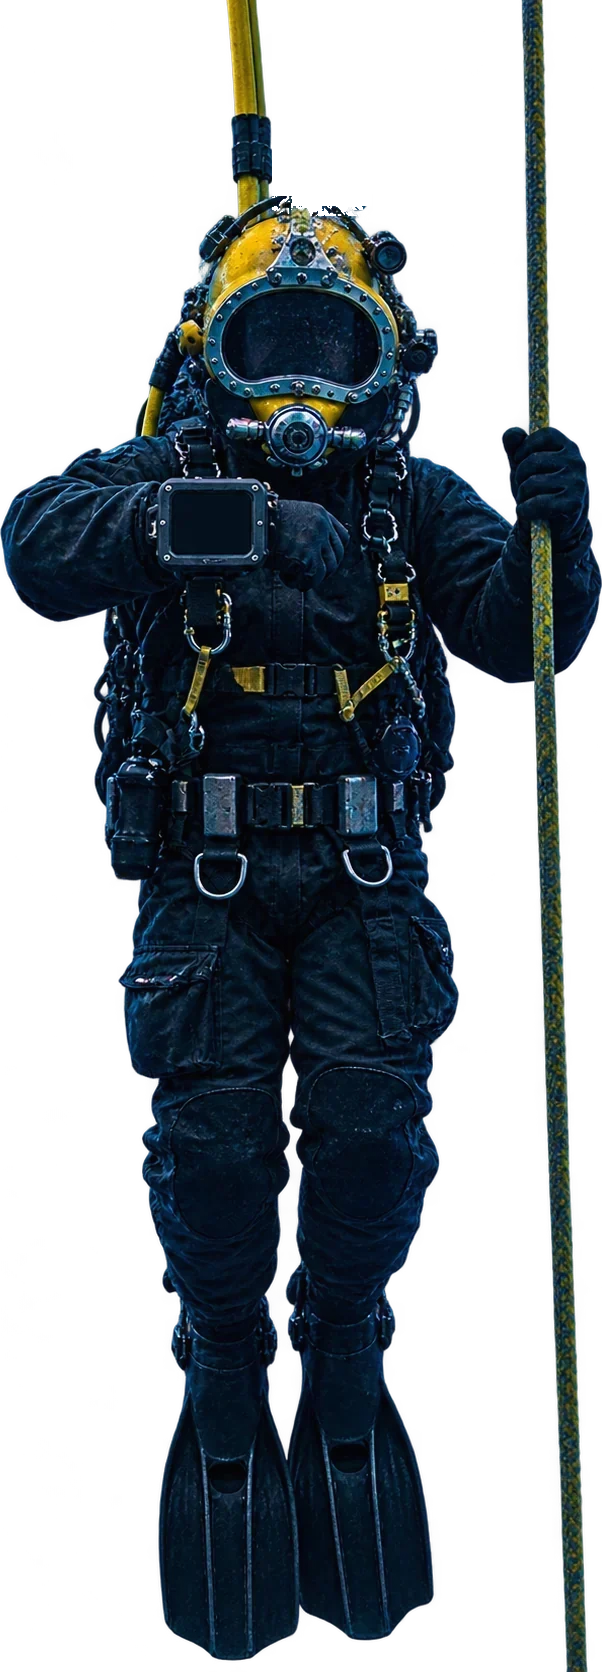
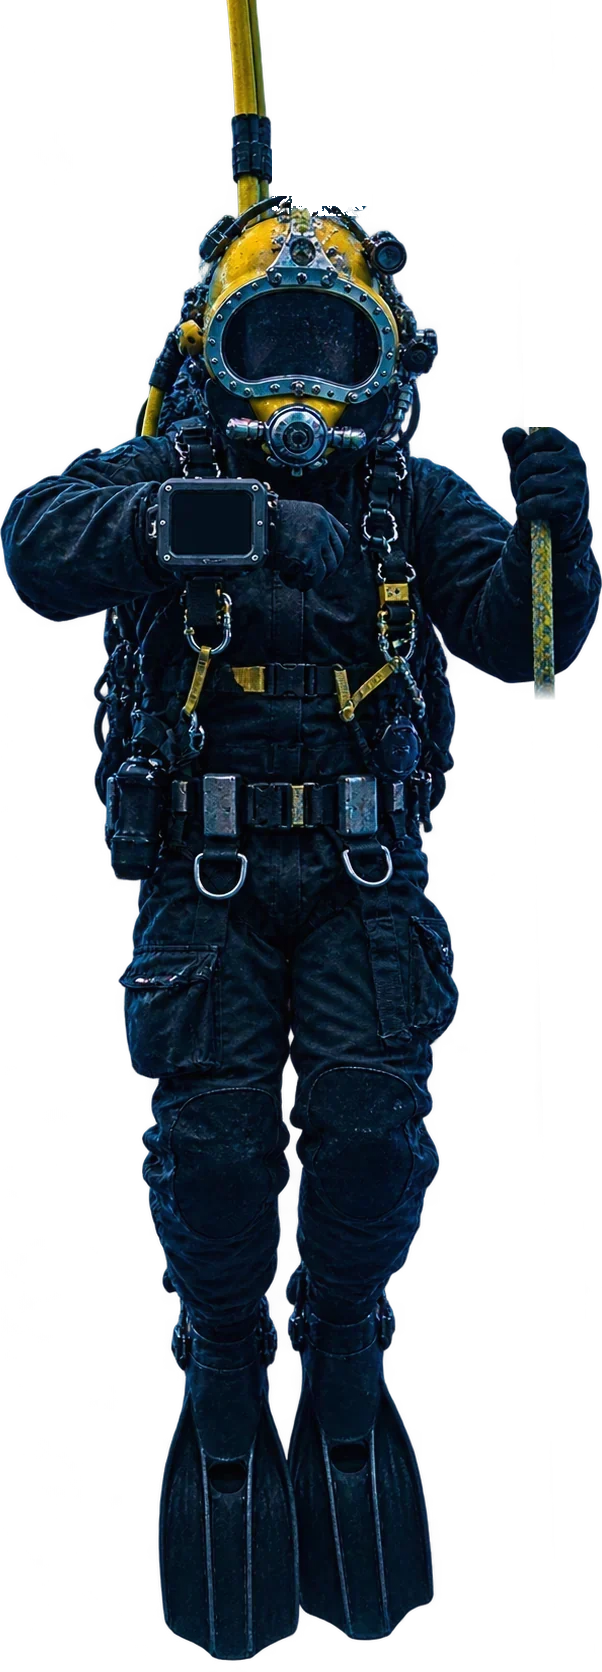
Cima di discesa ferma, il sub scorre

Changed region(s): [[0.8671, 0.4043, 0.9867, 1.0], [0.8671, 0.0, 0.9269, 0.2799]]

diff --git a/public/es/utilidades.html b/public/es/utilidades.html
@@ -20,12 +20,12 @@
 <link rel="icon" href="/favicon.png?v=3" type="image/png">
 <link rel="apple-touch-icon" href="/apple-touch-icon.png?v=3">
 <link rel="preload" href="/fonts/montserrat-latin-800-normal.woff2" as="font" type="font/woff2" crossorigin>
-<link rel="stylesheet" href="/css/style.css?v=6a1260e4">
+<link rel="stylesheet" href="/css/style.css?v=79aaf53f">
 <link rel="stylesheet" href="/vendor/leaflet/leaflet.css">
 </head>
 <body>
 <div class="abyss-bg" aria-hidden="true" data-max="50"><i class="ab1"></i><i class="ab2"></i><i class="ab3"></i><span class="ab-veil"></span></div>
-<div class="diver" aria-hidden="true"><span class="dv-hose"></span><span class="dv-bub"></span><span class="dv-rope"></span><span class="dv-rope2"></span><img src="/img/sub-ots.webp" alt="" width="602" height="1672"><span class="dv-lamp"></span><span class="dv-scr"><b data-depth>0.0</b><small>m</small></span></div>
+<span class="dv-line" aria-hidden="true"></span><div class="diver" aria-hidden="true"><span class="dv-hose"></span><span class="dv-bub"></span><span class="dv-rope"></span><span class="dv-rope2"></span><img src="/img/sub-ots.webp" alt="" width="602" height="1672"><span class="dv-lamp"></span><span class="dv-scr"><b data-depth>0.0</b><small>m</small></span></div>
 <a class="skip" href="#main">Ir al contenido</a>
 <header class="site-header solid">
 <div class="wrap nav-row">
@@ -132,8 +132,8 @@
 </div>
 <a class="sos-1530" href="tel:1530">¿Personas en peligro? Llama ya a la Guardia Costera italiana: <b>1530</b></a>
 </dialog>
-<script src="/js/main.js?v=6a1260e4"></script>
+<script src="/js/main.js?v=79aaf53f"></script>
 <script src="/vendor/leaflet/leaflet.js"></script>
-<script src="/js/utilita.js?v=6a1260e4"></script>
+<script src="/js/utilita.js?v=79aaf53f"></script>
 </body>
 </html>

diff --git a/public/de/nuetzliches.html b/public/de/nuetzliches.html
@@ -20,12 +20,12 @@
 <link rel="icon" href="/favicon.png?v=3" type="image/png">
 <link rel="apple-touch-icon" href="/apple-touch-icon.png?v=3">
 <link rel="preload" href="/fonts/montserrat-latin-800-normal.woff2" as="font" type="font/woff2" crossorigin>
-<link rel="stylesheet" href="/css/style.css?v=6a1260e4">
+<link rel="stylesheet" href="/css/style.css?v=79aaf53f">
 <link rel="stylesheet" href="/vendor/leaflet/leaflet.css">
 </head>
 <body>
 <div class="abyss-bg" aria-hidden="true" data-max="50"><i class="ab1"></i><i class="ab2"></i><i class="ab3"></i><span class="ab-veil"></span></div>
-<div class="diver" aria-hidden="true"><span class="dv-hose"></span><span class="dv-bub"></span><span class="dv-rope"></span><span class="dv-rope2"></span><img src="/img/sub-ots.webp" alt="" width="602" height="1672"><span class="dv-lamp"></span><span class="dv-scr"><b data-depth>0.0</b><small>m</small></span></div>
+<span class="dv-line" aria-hidden="true"></span><div class="diver" aria-hidden="true"><span class="dv-hose"></span><span class="dv-bub"></span><span class="dv-rope"></span><span class="dv-rope2"></span><img src="/img/sub-ots.webp" alt="" width="602" height="1672"><span class="dv-lamp"></span><span class="dv-scr"><b data-depth>0.0</b><small>m</small></span></div>
 <a class="skip" href="#main">Zum Inhalt</a>
 <header class="site-header solid">
 <div class="wrap nav-row">
@@ -132,8 +132,8 @@
 </div>
 <a class="sos-1530" href="tel:1530">Menschen in Gefahr? Sofort die italienische Küstenwache anrufen: <b>1530</b></a>
 </dialog>
-<script src="/js/main.js?v=6a1260e4"></script>
+<script src="/js/main.js?v=79aaf53f"></script>
 <script src="/vendor/leaflet/leaflet.js"></script>
-<script src="/js/utilita.js?v=6a1260e4"></script>
+<script src="/js/utilita.js?v=79aaf53f"></script>
 </body>
 </html>

diff --git a/public/utilita.html b/public/utilita.html
@@ -20,12 +20,12 @@
 <link rel="icon" href="/favicon.png?v=3" type="image/png">
 <link rel="apple-touch-icon" href="/apple-touch-icon.png?v=3">
 <link rel="preload" href="/fonts/montserrat-latin-800-normal.woff2" as="font" type="font/woff2" crossorigin>
-<link rel="stylesheet" href="/css/style.css?v=6a1260e4">
+<link rel="stylesheet" href="/css/style.css?v=79aaf53f">
 <link rel="stylesheet" href="/vendor/leaflet/leaflet.css">
 </head>
 <body>
 <div class="abyss-bg" aria-hidden="true" data-max="50"><i class="ab1"></i><i class="ab2"></i><i class="ab3"></i><span class="ab-veil"></span></div>
-<div class="diver" aria-hidden="true"><span class="dv-hose"></span><span class="dv-bub"></span><span class="dv-rope"></span><span class="dv-rope2"></span><img src="/img/sub-ots.webp" alt="" width="602" height="1672"><span class="dv-lamp"></span><span class="dv-scr"><b data-depth>0.0</b><small>m</small></span></div>
+<span class="dv-line" aria-hidden="true"></span><div class="diver" aria-hidden="true"><span class="dv-hose"></span><span class="dv-bub"></span><span class="dv-rope"></span><span class="dv-rope2"></span><img src="/img/sub-ots.webp" alt="" width="602" height="1672"><span class="dv-lamp"></span><span class="dv-scr"><b data-depth>0.0</b><small>m</small></span></div>
 <a class="skip" href="#main">Vai al contenuto</a>
 <header class="site-header solid">
 <div class="wrap nav-row">
@@ -132,8 +132,8 @@
 </div>
 <a class="sos-1530" href="tel:1530">Persone in pericolo? Chiama subito la Guardia Costiera: <b>1530</b></a>
 </dialog>
-<script src="/js/main.js?v=6a1260e4"></script>
+<script src="/js/main.js?v=79aaf53f"></script>
 <script src="/vendor/leaflet/leaflet.js"></script>
-<script src="/js/utilita.js?v=6a1260e4"></script>
+<script src="/js/utilita.js?v=79aaf53f"></script>
 </body>
 </html>

diff --git a/public/en/tools.html b/public/en/tools.html
@@ -20,12 +20,12 @@
 <link rel="icon" href="/favicon.png?v=3" type="image/png">
 <link rel="apple-touch-icon" href="/apple-touch-icon.png?v=3">
 <link rel="preload" href="/fonts/montserrat-latin-800-normal.woff2" as="font" type="font/woff2" crossorigin>
-<link rel="stylesheet" href="/css/style.css?v=6a1260e4">
+<link rel="stylesheet" href="/css/style.css?v=79aaf53f">
 <link rel="stylesheet" href="/vendor/leaflet/leaflet.css">
 </head>
 <body>
 <div class="abyss-bg" aria-hidden="true" data-max="50"><i class="ab1"></i><i class="ab2"></i><i class="ab3"></i><span class="ab-veil"></span></div>
-<div class="diver" aria-hidden="true"><span class="dv-hose"></span><span class="dv-bub"></span><span class="dv-rope"></span><span class="dv-rope2"></span><img src="/img/sub-ots.webp" alt="" width="602" height="1672"><span class="dv-lamp"></span><span class="dv-scr"><b data-depth>0.0</b><small>m</small></span></div>
+<span class="dv-line" aria-hidden="true"></span><div class="diver" aria-hidden="true"><span class="dv-hose"></span><span class="dv-bub"></span><span class="dv-rope"></span><span class="dv-rope2"></span><img src="/img/sub-ots.webp" alt="" width="602" height="1672"><span class="dv-lamp"></span><span class="dv-scr"><b data-depth>0.0</b><small>m</small></span></div>
 <a class="skip" href="#main">Skip to content</a>
 <header class="site-header solid">
 <div class="wrap nav-row">
@@ -132,8 +132,8 @@
 </div>
 <a class="sos-1530" href="tel:1530">People in danger? Call the Italian Coast Guard now: <b>1530</b></a>
 </dialog>
-<script src="/js/main.js?v=6a1260e4"></script>
+<script src="/js/main.js?v=79aaf53f"></script>
 <script src="/vendor/leaflet/leaflet.js"></script>
-<script src="/js/utilita.js?v=6a1260e4"></script>
+<script src="/js/utilita.js?v=79aaf53f"></script>
 </body>
 </html>

diff --git a/public/es/index.html b/public/es/index.html
@@ -20,11 +20,11 @@
 <link rel="icon" href="/favicon.png?v=3" type="image/png">
 <link rel="apple-touch-icon" href="/apple-touch-icon.png?v=3">
 <link rel="preload" href="/fonts/montserrat-latin-800-normal.woff2" as="font" type="font/woff2" crossorigin>
-<link rel="stylesheet" href="/css/style.css?v=6a1260e4">
+<link rel="stylesheet" href="/css/style.css?v=79aaf53f">
 </head>
 <body>
 <div class="abyss-bg" aria-hidden="true" data-max="50"><i class="ab1"></i><i class="ab2"></i><i class="ab3"></i><span class="ab-veil"></span></div>
-<div class="diver" aria-hidden="true"><span class="dv-hose"></span><span class="dv-bub"></span><span class="dv-rope"></span><span class="dv-rope2"></span><img src="/img/sub-ots.webp" alt="" width="602" height="1672"><span class="dv-lamp"></span><span class="dv-scr"><b data-depth>0.0</b><small>m</small></span></div>
+<span class="dv-line" aria-hidden="true"></span><div class="diver" aria-hidden="true"><span class="dv-hose"></span><span class="dv-bub"></span><span class="dv-rope"></span><span class="dv-rope2"></span><img src="/img/sub-ots.webp" alt="" width="602" height="1672"><span class="dv-lamp"></span><span class="dv-scr"><b data-depth>0.0</b><small>m</small></span></div>
 <a class="skip" href="#main">Ir al contenido</a>
 <header class="site-header">
 <div class="wrap nav-row">
@@ -261,7 +261,7 @@
 </div>
 <a class="sos-1530" href="tel:1530">¿Personas en peligro? Llama ya a la Guardia Costera italiana: <b>1530</b></a>
 </dialog>
-<script src="/js/main.js?v=6a1260e4"></script>
-<script src="/js/utilita.js?v=6a1260e4"></script>
+<script src="/js/main.js?v=79aaf53f"></script>
+<script src="/js/utilita.js?v=79aaf53f"></script>
 </body>
 </html>

diff --git a/public/de/index.html b/public/de/index.html
@@ -20,11 +20,11 @@
 <link rel="icon" href="/favicon.png?v=3" type="image/png">
 <link rel="apple-touch-icon" href="/apple-touch-icon.png?v=3">
 <link rel="preload" href="/fonts/montserrat-latin-800-normal.woff2" as="font" type="font/woff2" crossorigin>
-<link rel="stylesheet" href="/css/style.css?v=6a1260e4">
+<link rel="stylesheet" href="/css/style.css?v=79aaf53f">
 </head>
 <body>
 <div class="abyss-bg" aria-hidden="true" data-max="50"><i class="ab1"></i><i class="ab2"></i><i class="ab3"></i><span class="ab-veil"></span></div>
-<div class="diver" aria-hidden="true"><span class="dv-hose"></span><span class="dv-bub"></span><span class="dv-rope"></span><span class="dv-rope2"></span><img src="/img/sub-ots.webp" alt="" width="602" height="1672"><span class="dv-lamp"></span><span class="dv-scr"><b data-depth>0.0</b><small>m</small></span></div>
+<span class="dv-line" aria-hidden="true"></span><div class="diver" aria-hidden="true"><span class="dv-hose"></span><span class="dv-bub"></span><span class="dv-rope"></span><span class="dv-rope2"></span><img src="/img/sub-ots.webp" alt="" width="602" height="1672"><span class="dv-lamp"></span><span class="dv-scr"><b data-depth>0.0</b><small>m</small></span></div>
 <a class="skip" href="#main">Zum Inhalt</a>
 <header class="site-header">
 <div class="wrap nav-row">
@@ -261,7 +261,7 @@
 </div>
 <a class="sos-1530" href="tel:1530">Menschen in Gefahr? Sofort die italienische Küstenwache anrufen: <b>1530</b></a>
 </dialog>
-<script src="/js/main.js?v=6a1260e4"></script>
-<script src="/js/utilita.js?v=6a1260e4"></script>
+<script src="/js/main.js?v=79aaf53f"></script>
+<script src="/js/utilita.js?v=79aaf53f"></script>
 </body>
 </html>

diff --git a/public/index.html b/public/index.html
@@ -20,11 +20,11 @@
 <link rel="icon" href="/favicon.png?v=3" type="image/png">
 <link rel="apple-touch-icon" href="/apple-touch-icon.png?v=3">
 <link rel="preload" href="/fonts/montserrat-latin-800-normal.woff2" as="font" type="font/woff2" crossorigin>
-<link rel="stylesheet" href="/css/style.css?v=6a1260e4">
+<link rel="stylesheet" href="/css/style.css?v=79aaf53f">
 </head>
 <body>
 <div class="abyss-bg" aria-hidden="true" data-max="50"><i class="ab1"></i><i class="ab2"></i><i class="ab3"></i><span class="ab-veil"></span></div>
-<div class="diver" aria-hidden="true"><span class="dv-hose"></span><span class="dv-bub"></span><span class="dv-rope"></span><span class="dv-rope2"></span><img src="/img/sub-ots.webp" alt="" width="602" height="1672"><span class="dv-lamp"></span><span class="dv-scr"><b data-depth>0.0</b><small>m</small></span></div>
+<span class="dv-line" aria-hidden="true"></span><div class="diver" aria-hidden="true"><span class="dv-hose"></span><span class="dv-bub"></span><span class="dv-rope"></span><span class="dv-rope2"></span><img src="/img/sub-ots.webp" alt="" width="602" height="1672"><span class="dv-lamp"></span><span class="dv-scr"><b data-depth>0.0</b><small>m</small></span></div>
 <a class="skip" href="#main">Vai al contenuto</a>
 <header class="site-header">
 <div class="wrap nav-row">
@@ -261,7 +261,7 @@
 </div>
 <a class="sos-1530" href="tel:1530">Persone in pericolo? Chiama subito la Guardia Costiera: <b>1530</b></a>
 </dialog>
-<script src="/js/main.js?v=6a1260e4"></script>
-<script src="/js/utilita.js?v=6a1260e4"></script>
+<script src="/js/main.js?v=79aaf53f"></script>
+<script src="/js/utilita.js?v=79aaf53f"></script>
 </body>
 </html>

diff --git a/public/en/index.html b/public/en/index.html
@@ -20,11 +20,11 @@
 <link rel="icon" href="/favicon.png?v=3" type="image/png">
 <link rel="apple-touch-icon" href="/apple-touch-icon.png?v=3">
 <link rel="preload" href="/fonts/montserrat-latin-800-normal.woff2" as="font" type="font/woff2" crossorigin>
-<link rel="stylesheet" href="/css/style.css?v=6a1260e4">
+<link rel="stylesheet" href="/css/style.css?v=79aaf53f">
 </head>
 <body>
 <div class="abyss-bg" aria-hidden="true" data-max="50"><i class="ab1"></i><i class="ab2"></i><i class="ab3"></i><span class="ab-veil"></span></div>
-<div class="diver" aria-hidden="true"><span class="dv-hose"></span><span class="dv-bub"></span><span class="dv-rope"></span><span class="dv-rope2"></span><img src="/img/sub-ots.webp" alt="" width="602" height="1672"><span class="dv-lamp"></span><span class="dv-scr"><b data-depth>0.0</b><small>m</small></span></div>
+<span class="dv-line" aria-hidden="true"></span><div class="diver" aria-hidden="true"><span class="dv-hose"></span><span class="dv-bub"></span><span class="dv-rope"></span><span class="dv-rope2"></span><img src="/img/sub-ots.webp" alt="" width="602" height="1672"><span class="dv-lamp"></span><span class="dv-scr"><b data-depth>0.0</b><small>m</small></span></div>
 <a class="skip" href="#main">Skip to content</a>
 <header class="site-header">
 <div class="wrap nav-row">
@@ -261,7 +261,7 @@
 </div>
 <a class="sos-1530" href="tel:1530">People in danger? Call the Italian Coast Guard now: <b>1530</b></a>
 </dialog>
-<script src="/js/main.js?v=6a1260e4"></script>
-<script src="/js/utilita.js?v=6a1260e4"></script>
+<script src="/js/main.js?v=79aaf53f"></script>
+<script src="/js/utilita.js?v=79aaf53f"></script>
 </body>
 </html>

diff --git a/public/es/contacto.html b/public/es/contacto.html
@@ -20,11 +20,11 @@
 <link rel="icon" href="/favicon.png?v=3" type="image/png">
 <link rel="apple-touch-icon" href="/apple-touch-icon.png?v=3">
 <link rel="preload" href="/fonts/montserrat-latin-800-normal.woff2" as="font" type="font/woff2" crossorigin>
-<link rel="stylesheet" href="/css/style.css?v=6a1260e4">
+<link rel="stylesheet" href="/css/style.css?v=79aaf53f">
 </head>
 <body>
 <div class="abyss-bg is-shallow" aria-hidden="true" data-max="30"><i class="ab1"></i><i class="ab2"></i><i class="ab3"></i><span class="ab-veil"></span></div>
-<div class="diver" aria-hidden="true"><span class="dv-hose"></span><span class="dv-bub"></span><span class="dv-rope"></span><span class="dv-rope2"></span><img src="/img/sub-ots.webp" alt="" width="602" height="1672"><span class="dv-lamp"></span><span class="dv-scr"><b data-depth>0.0</b><small>m</small></span></div>
+<span class="dv-line" aria-hidden="true"></span><div class="diver" aria-hidden="true"><span class="dv-hose"></span><span class="dv-bub"></span><span class="dv-rope"></span><span class="dv-rope2"></span><img src="/img/sub-ots.webp" alt="" width="602" height="1672"><span class="dv-lamp"></span><span class="dv-scr"><b data-depth>0.0</b><small>m</small></span></div>
 <a class="skip" href="#main">Ir al contenido</a>
 <header class="site-header solid">
 <div class="wrap nav-row">
@@ -109,6 +109,6 @@
 </div>
 <a class="sos-1530" href="tel:1530">¿Personas en peligro? Llama ya a la Guardia Costera italiana: <b>1530</b></a>
 </dialog>
-<script src="/js/main.js?v=6a1260e4"></script>
+<script src="/js/main.js?v=79aaf53f"></script>
 </body>
 </html>

diff --git a/public/es/quienes-somos.html b/public/es/quienes-somos.html
@@ -20,11 +20,11 @@
 <link rel="icon" href="/favicon.png?v=3" type="image/png">
 <link rel="apple-touch-icon" href="/apple-touch-icon.png?v=3">
 <link rel="preload" href="/fonts/montserrat-latin-800-normal.woff2" as="font" type="font/woff2" crossorigin>
-<link rel="stylesheet" href="/css/style.css?v=6a1260e4">
+<link rel="stylesheet" href="/css/style.css?v=79aaf53f">
 </head>
 <body>
 <div class="abyss-bg is-shallow" aria-hidden="true" data-max="30"><i class="ab1"></i><i class="ab2"></i><i class="ab3"></i><span class="ab-veil"></span></div>
-<div class="diver" aria-hidden="true"><span class="dv-hose"></span><span class="dv-bub"></span><span class="dv-rope"></span><span class="dv-rope2"></span><img src="/img/sub-ots.webp" alt="" width="602" height="1672"><span class="dv-lamp"></span><span class="dv-scr"><b data-depth>0.0</b><small>m</small></span></div>
+<span class="dv-line" aria-hidden="true"></span><div class="diver" aria-hidden="true"><span class="dv-hose"></span><span class="dv-bub"></span><span class="dv-rope"></span><span class="dv-rope2"></span><img src="/img/sub-ots.webp" alt="" width="602" height="1672"><span class="dv-lamp"></span><span class="dv-scr"><b data-depth>0.0</b><small>m</small></span></div>
 <a class="skip" href="#main">Ir al contenido</a>
 <header class="site-header solid">
 <div class="wrap nav-row">
@@ -127,6 +127,6 @@
 </div>
 <a class="sos-1530" href="tel:1530">¿Personas en peligro? Llama ya a la Guardia Costera italiana: <b>1530</b></a>
 </dialog>
-<script src="/js/main.js?v=6a1260e4"></script>
+<script src="/js/main.js?v=79aaf53f"></script>
 </body>
 </html>

diff --git a/public/es/remolcador.html b/public/es/remolcador.html
@@ -20,11 +20,11 @@
 <link rel="icon" href="/favicon.png?v=3" type="image/png">
 <link rel="apple-touch-icon" href="/apple-touch-icon.png?v=3">
 <link rel="preload" href="/fonts/montserrat-latin-800-normal.woff2" as="font" type="font/woff2" crossorigin>
-<link rel="stylesheet" href="/css/style.css?v=6a1260e4">
+<link rel="stylesheet" href="/css/style.css?v=79aaf53f">
 </head>
 <body>
 <div class="abyss-bg is-shallow" aria-hidden="true" data-max="30"><i class="ab1"></i><i class="ab2"></i><i class="ab3"></i><span class="ab-veil"></span></div>
-<div class="diver" aria-hidden="true"><span class="dv-hose"></span><span class="dv-bub"></span><span class="dv-rope"></span><span class="dv-rope2"></span><img src="/img/sub-ots.webp" alt="" width="602" height="1672"><span class="dv-lamp"></span><span class="dv-scr"><b data-depth>0.0</b><small>m</small></span></div>
+<span class="dv-line" aria-hidden="true"></span><div class="diver" aria-hidden="true"><span class="dv-hose"></span><span class="dv-bub"></span><span class="dv-rope"></span><span class="dv-rope2"></span><img src="/img/sub-ots.webp" alt="" width="602" height="1672"><span class="dv-lamp"></span><span class="dv-scr"><b data-depth>0.0</b><small>m</small></span></div>
 <a class="skip" href="#main">Ir al contenido</a>
 <header class="site-header solid">
 <div class="wrap nav-row">
@@ -105,6 +105,6 @@
 </div>
 <a class="sos-1530" href="tel:1530">¿Personas en peligro? Llama ya a la Guardia Costera italiana: <b>1530</b></a>
 </dialog>
-<script src="/js/main.js?v=6a1260e4"></script>
+<script src="/js/main.js?v=79aaf53f"></script>
 </body>
 </html>

diff --git a/public/de/kontakt.html b/public/de/kontakt.html
@@ -20,11 +20,11 @@
 <link rel="icon" href="/favicon.png?v=3" type="image/png">
 <link rel="apple-touch-icon" href="/apple-touch-icon.png?v=3">
 <link rel="preload" href="/fonts/montserrat-latin-800-normal.woff2" as="font" type="font/woff2" crossorigin>
-<link rel="stylesheet" href="/css/style.css?v=6a1260e4">
+<link rel="stylesheet" href="/css/style.css?v=79aaf53f">
 </head>
 <body>
 <div class="abyss-bg is-shallow" aria-hidden="true" data-max="30"><i class="ab1"></i><i class="ab2"></i><i class="ab3"></i><span class="ab-veil"></span></div>
-<div class="diver" aria-hidden="true"><span class="dv-hose"></span><span class="dv-bub"></span><span class="dv-rope"></span><span class="dv-rope2"></span><img src="/img/sub-ots.webp" alt="" width="602" height="1672"><span class="dv-lamp"></span><span class="dv-scr"><b data-depth>0.0</b><small>m</small></span></div>
+<span class="dv-line" aria-hidden="true"></span><div class="diver" aria-hidden="true"><span class="dv-hose"></span><span class="dv-bub"></span><span class="dv-rope"></span><span class="dv-rope2"></span><img src="/img/sub-ots.webp" alt="" width="602" height="1672"><span class="dv-lamp"></span><span class="dv-scr"><b data-depth>0.0</b><small>m</small></span></div>
 <a class="skip" href="#main">Zum Inhalt</a>
 <header class="site-header solid">
 <div class="wrap nav-row">
@@ -109,6 +109,6 @@
 </div>
 <a class="sos-1530" href="tel:1530">Menschen in Gefahr? Sofort die italienische Küstenwache anrufen: <b>1530</b></a>
 </dialog>
-<script src="/js/main.js?v=6a1260e4"></script>
+<script src="/js/main.js?v=79aaf53f"></script>
 </body>
 </html>
